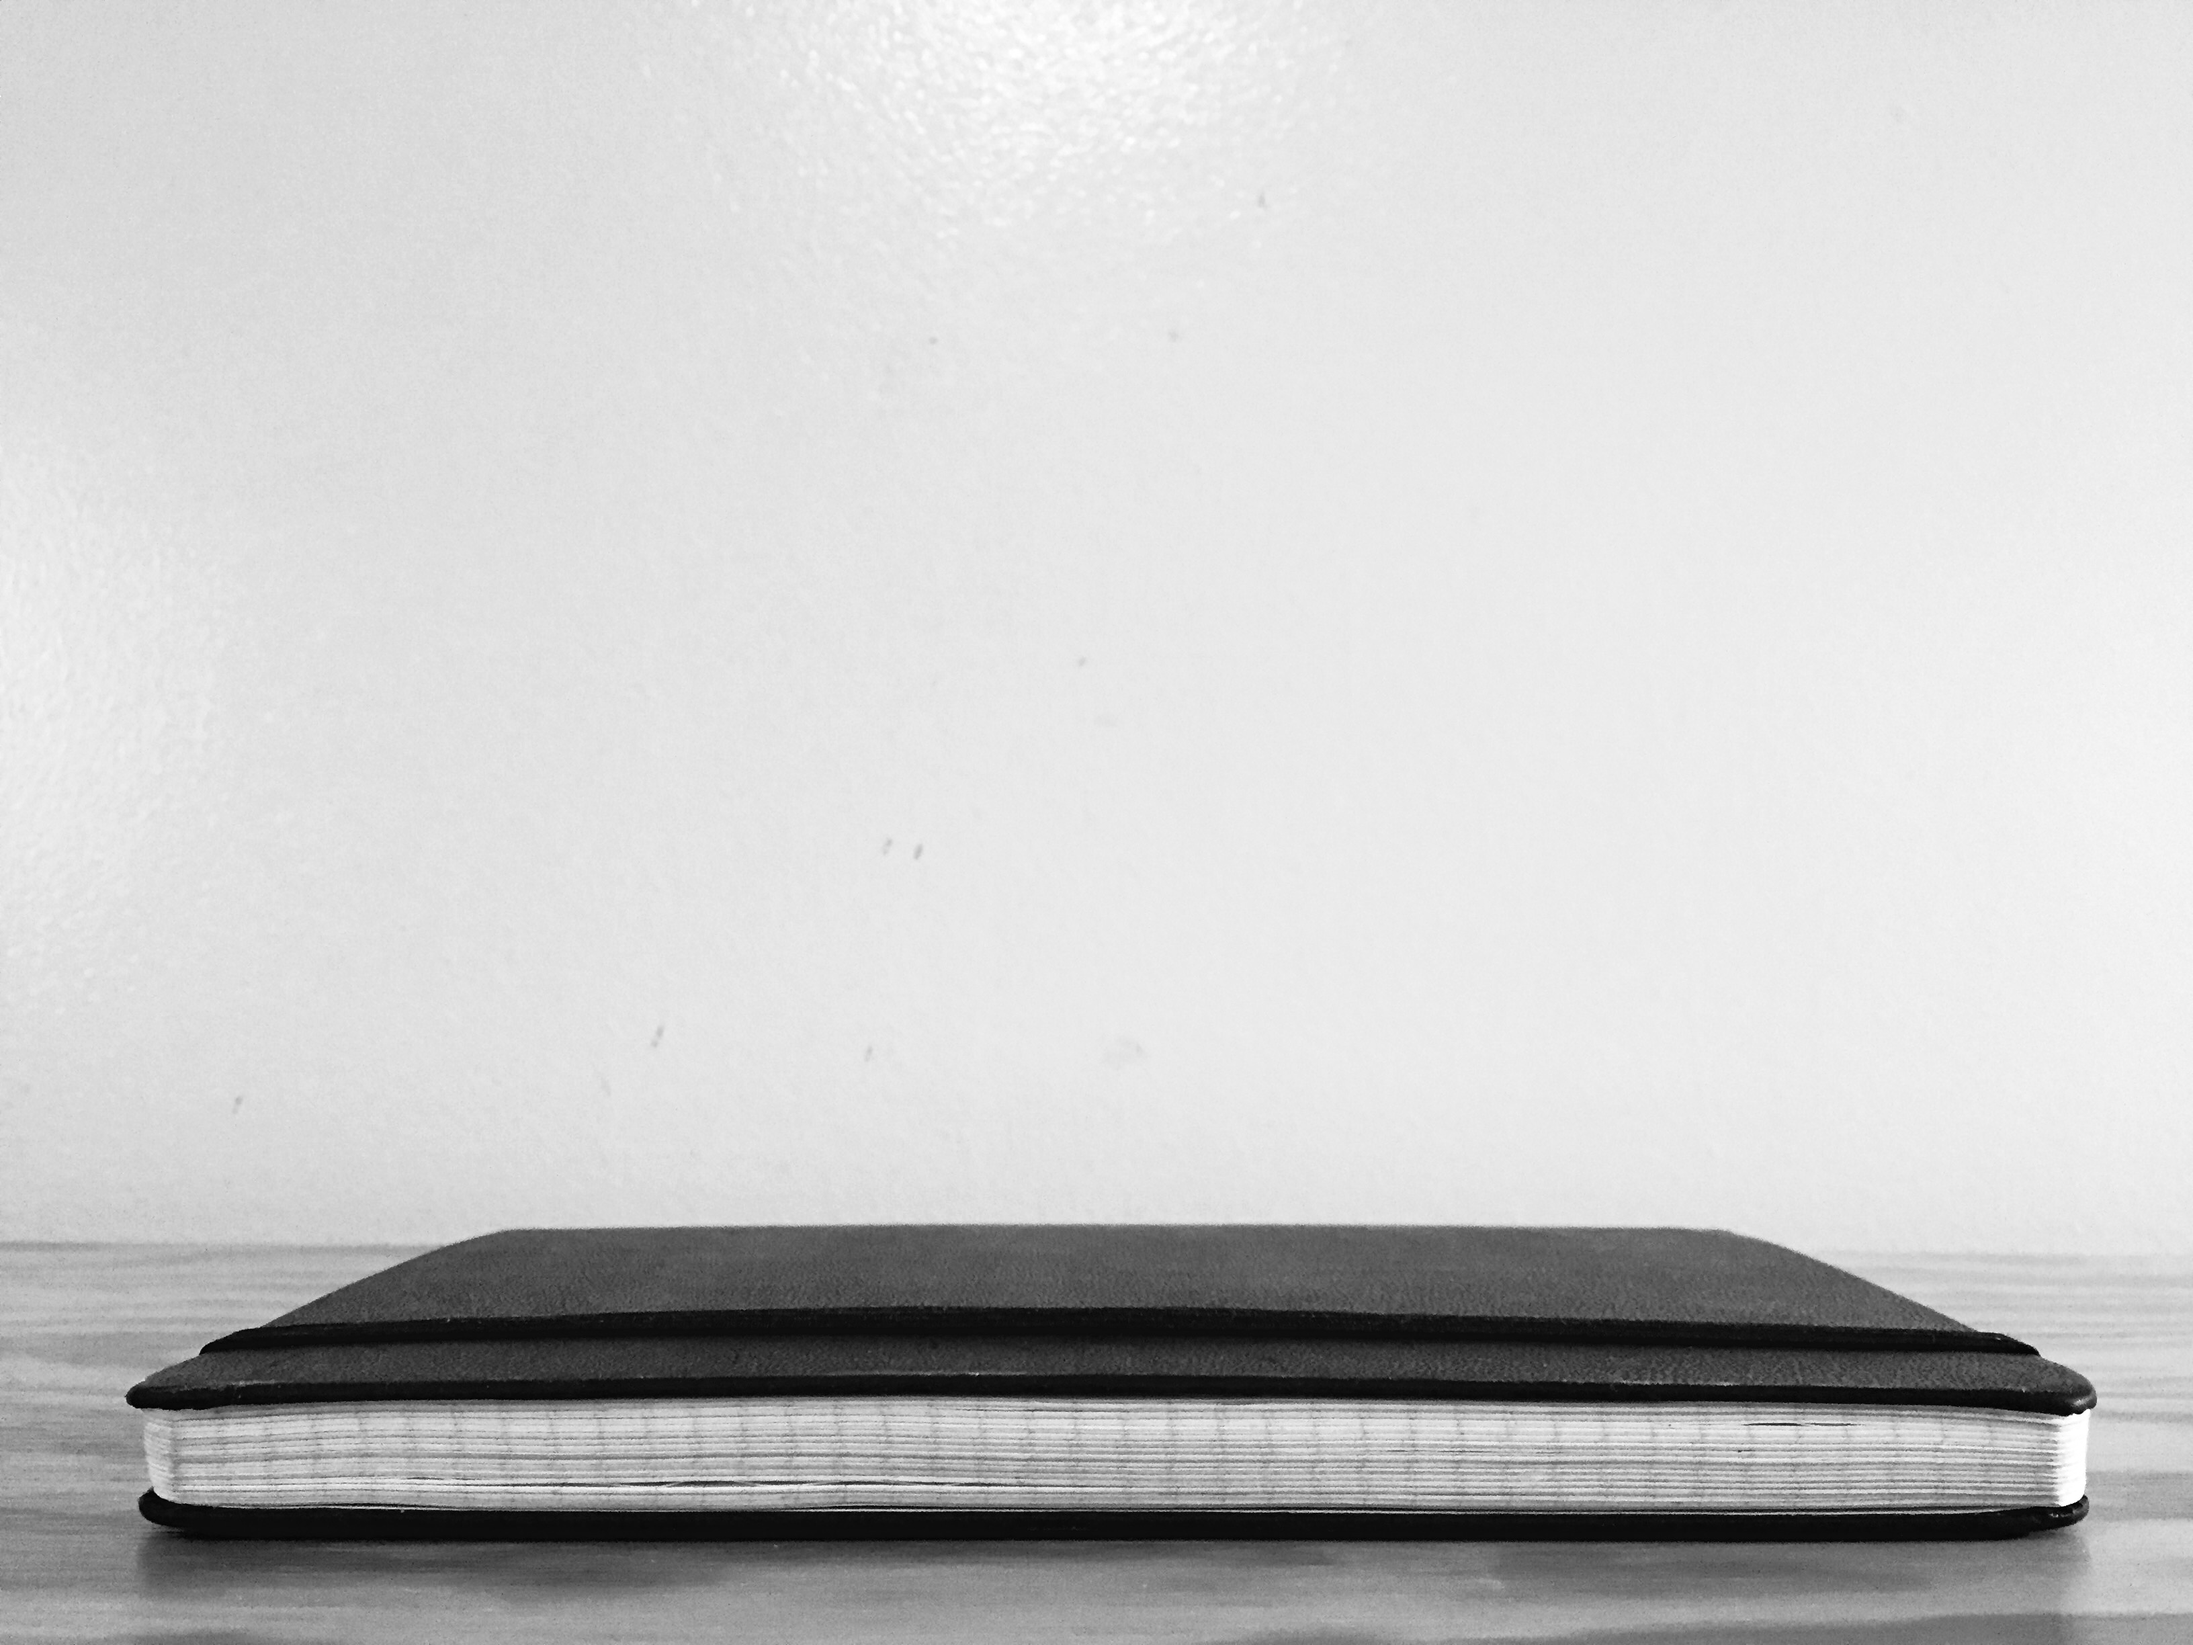
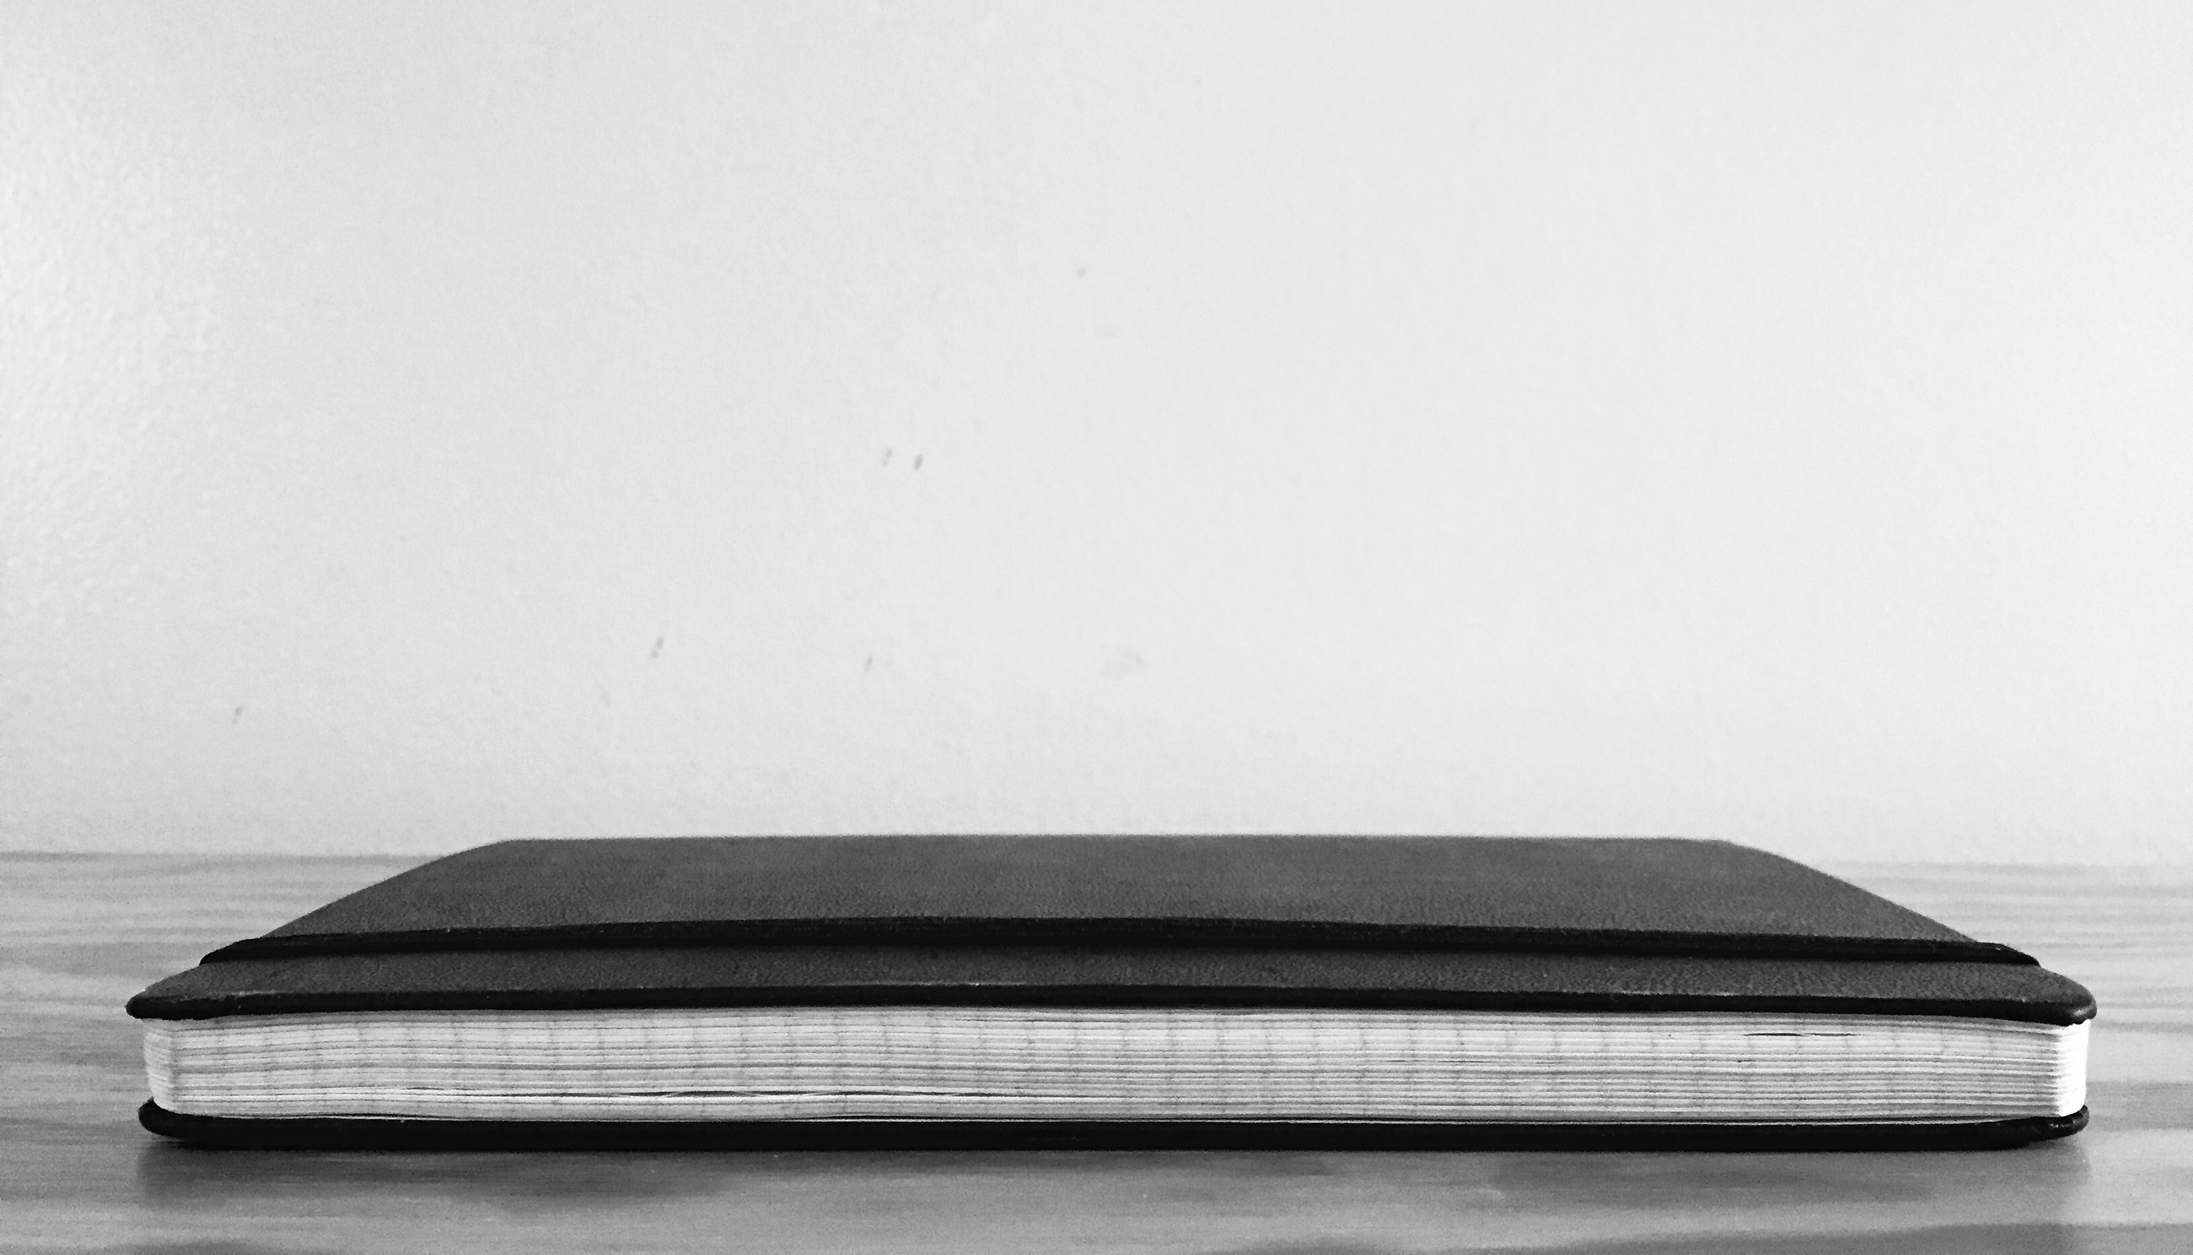
minimalism images; new posts

Changed region(s): [[0.0, 0.6517, 1.0, 0.993]]

diff --git a/blog/_posts/_stop-retyping-commands.md b/blog/_posts/_stop-retyping-commands.md
@@ -1,0 +1,62 @@
+---
+layout: single
+title: stop retyping commands
+header:
+  image: blog/fzf.png
+---
+ 
+Stop retyping the same commands over and over again! Let's make our
+computers do some work for us and put some of those GBs of storage and
+compute power to good use. If, like me, you use the shell a lot this will
+literally save some chunk of your life. The setup I describe in the
+following now also serves as a kind of long term memory for how to use a
+certain command or program. I can just search back through all my
+previous commands and quickly refresh my memory if I forgot.
+
+You might already know the `Ctrl-R` command to search backward through
+the history of commands you have typed. If not try it. It is magical.
+The problem is that those searches have to exactly match parts of the command
+you are looking for and you can only see the latest command matching
+your search. In short the default `Ctrl-R` is not very user friendly.
+
+There are way better tools for searching through large text files such
+as your bash history. The one I personally use is
+[fzf](https://github.com/junegunn/fzf) since it is light weight and fast
+and integrates well with vim and tmux (more about that some other time).
+If you only ever use a single terminal at a time just install fzf and
+start using the new and amazing `Ctrl-R`: fzf performs [fuzzy
+matching](https://en.wikipedia.org/wiki/Approximate_string_matching) of
+the string you enter against your history or text file and it displays
+a sorted list of the best matching strings which is updated in real-time
+as you type your search.
+
+It gets more interesting if you have multiple terminals open at the
+same time (maybe via tmux). In that case the command history fragments
+and you cannot search a command you typed into one shell in another
+one. Additionally, commands are lost whenever you close a shell while
+another one still exists.
+
+To circumvent this we are going to log every command you enter. Simply
+add the following line to your `.bashrc`:
+```
+export PROMPT_COMMAND='if [ "$(id -u)" -ne 0 ]; then echo "$(date "+%Y-%m-%d.%H:%M:%S") $(pwd) $(history 1)" >> ~/.logs/bash-history-$(date "+%Y-%m-%d").log;' 
+```
+
+Bash executes the command in its `PROMPT_COMMAND` variable right after you hit
+enter to execute. The if statement makes sure
+you are not root, and then logs the time, folder and the command into a log
+file in your home directory `~/.logs/`.  Make sure to create that directory.
+An additional advantage of using this command logging system is that
+you could easily share the commands between computers.
+
+Now we just need to configure fzf to search through all files in the
+`~/.logs` folder to find commands similar to whatever you are typing. 
+To do replace all occurrences of the command `history` in your fzf config file
+`~/.fzf.bash` with:
+```
+cat ~/.logs/* | cut -f 1,6- --delimiter=\" \"
+```
+
+Now you should be able to use `Ctrl-R` with fzf across terminals and
+bash sessions. Enjoy!
+

diff --git a/blog/_posts/_computer_minimalism.md b/blog/_posts/_computer_minimalism.md
@@ -1,0 +1,39 @@
+---
+layout: single
+title: computer minimalism
+header:
+  image: blog/minimalism.jpg
+---
+ 
+Lately I have been thinking a lot about minimalism, how to incorporate
+more of it into my life and where it is already present.
+
+The way I use my computer has been trending towards more and more
+minimalistic ever since I started graduate school. My usage is tailored
+to coding, writing and editing text, email and research on the
+Internet. The corner stones of my minimalist computer usage are:
+
+* awesome wm desktop manager for linux
+* vim for all text editing (like really all of it - even email)
+* mutt for email
+* tmux for running and testing code (tmux-vim integration)
+* fzf fuzzy finder to eliminate the need for retyping commands or paths
+
+Currently I am using linux with the Awesome WM desktop environment. It
+is a minimalist automatically tiling desktop manager. That means I
+dont have to arrange windows to be visible. Ever. It automatically
+arranges windows to fill all available screen space according to some
+tiling scheme, that can easily be changed.
+This eliminates all the overhead of having to align, resize and make
+visible whatever window you are working on currently. It also always
+automatically means I am always using 100% of the available pixels of
+my monitor. This means I can productively and comfortably work on the
+12.1'' (!?? TODO) monitor of my beloved X220 Thinkpad or a single 24''
+rotated screen at work.
+
+I love vim. It embodies minimalism for text editing and coding. Using
+plugins it can be adapted and extended to do anything you would want to
+do with text. I mostly use [YouCompleteMe](), vim-tmux integration, and
+[Run external command thing].
+
+...

diff --git a/blog/_posts/2016-12-24-minimalism.md b/blog/_posts/2016-12-24-minimalism.md
@@ -3,6 +3,7 @@ layout: single
 title: minimalism
 header:
   image: blog/minimalism.jpg
+  teaser: blog/minimalism_tn.jpg
 ---
 
 *Find out what is important to you and let go of everything else.*
